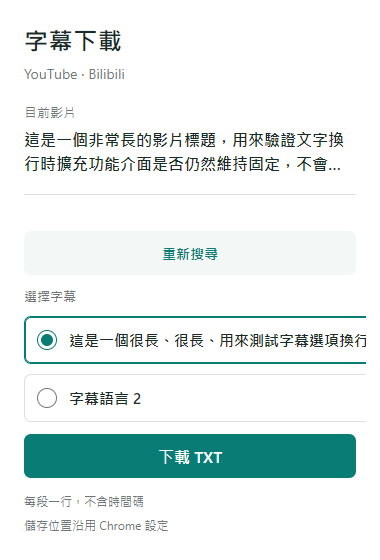
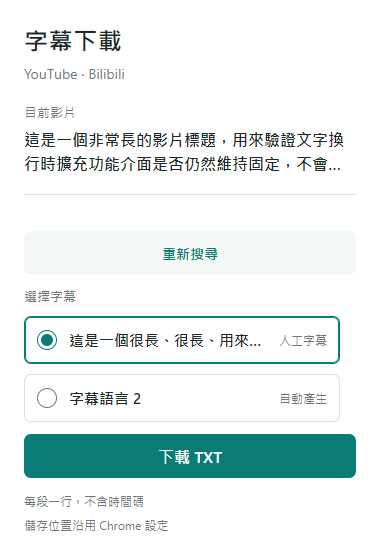
fix: prevent Chrome popup width collapse
Remove the viewport-relative max width that collapsed the popup during Chrome bootstrap. Constrain the subtitle grid to its scrollport and cover narrow startup viewports in the layout regression test.

Changed region(s): [[0.6658, 0.5464, 0.9553, 0.6982], [0.7237, 0.6982, 0.8684, 0.7286]]

diff --git a/extension/popup.css b/extension/popup.css
@@ -12,7 +12,7 @@
   background: var(--background);
 }
 * { box-sizing: border-box; }
-html, body { width: 380px; height: 560px; max-width: 100vw; overflow: hidden; }
+html, body { width: 380px; min-width: 380px; height: 560px; overflow: hidden; }
 body { margin: 0; }
 main { display: flex; flex-direction: column; height: 100%; padding: 24px; overflow: hidden; }
 header { flex: 0 0 auto; }
@@ -25,8 +25,8 @@ h2 { display: -webkit-box; height: 48px; margin: 8px 0 0; overflow: hidden; over
 #subtitle-form { display: flex; flex: 1 1 auto; flex-direction: column; min-height: 0; padding-top: 12px; }
 fieldset { display: flex; flex: 1 1 auto; flex-direction: column; min-width: 0; min-height: 0; border: 0; padding: 0; margin: 0; }
 legend { padding: 0; color: var(--muted); font-size: 13px; margin-bottom: 12px; }
-#tracks { display: grid; flex: 1 1 auto; grid-auto-rows: max-content; gap: 10px; min-height: 0; overflow-y: auto; overflow-x: hidden; padding: 2px 10px 2px 2px; margin: -2px -10px -2px -2px; scrollbar-gutter: stable; align-content: start; }
-.track { display: flex; align-items: center; gap: 12px; min-height: 48px; padding: 12px; border: 1px solid var(--border); border-radius: 7px; cursor: pointer; }
+#tracks { display: grid; flex: 1 1 auto; grid-template-columns: minmax(0, 1fr); grid-auto-rows: max-content; gap: 10px; min-height: 0; overflow-y: auto; overflow-x: hidden; padding: 2px 18px 2px 2px; margin: -2px; align-content: start; }
+.track { display: flex; align-items: center; gap: 12px; min-width: 0; min-height: 48px; padding: 12px; border: 1px solid var(--border); border-radius: 7px; cursor: pointer; }
 .track:has(input:checked) { border-color: var(--accent); box-shadow: inset 0 0 0 1px var(--accent); }
 .track:has(input:disabled) { cursor: wait; opacity: .65; }
 .track input { accent-color: var(--accent); width: 20px; height: 20px; margin: 0; flex: 0 0 20px; }

diff --git a/docs/design/popup-design.md b/docs/design/popup-design.md
@@ -15,7 +15,7 @@
 
 ## 實作比對結果
 
-實際 Chromium 截圖：`popup-implemented.png`。已使用 view_image 檢視概念圖與實作，並在 Browser/IAB 驗證初始按鈕、搜尋、語言切換與狀態更新。概念原圖 1116 × 1409 為展示板；實際彈窗固定為 380 × 560px，另測 320px 無橫向溢出。影片標題固定兩行，字幕清單在固定區域內捲動，狀態訊息預留高度；開啟、初始化、搜尋中與載入 30 個字幕時，搜尋按鈕及頁尾座標均維持不變。
+實際 Chromium 截圖：`popup-implemented.png`。已使用 view_image 檢視概念圖與實作，並在 Browser/IAB 驗證初始按鈕、搜尋、語言切換與狀態更新。概念原圖 1116 × 1409 為展示板；實際彈窗固定為 380 × 560px。影片標題固定兩行，字幕清單在固定區域內捲動，狀態訊息預留高度；開啟、初始化、搜尋中與載入 30 個字幕時，搜尋按鈕及頁尾座標均維持不變。另以 32px 初始 viewport 重現 Chrome popup 啟動條件，確認 CSS 不會把指定的 380px 寬度壓縮成窄條。
 
 | 比對點 | 結果 |
 | --- | --- |
